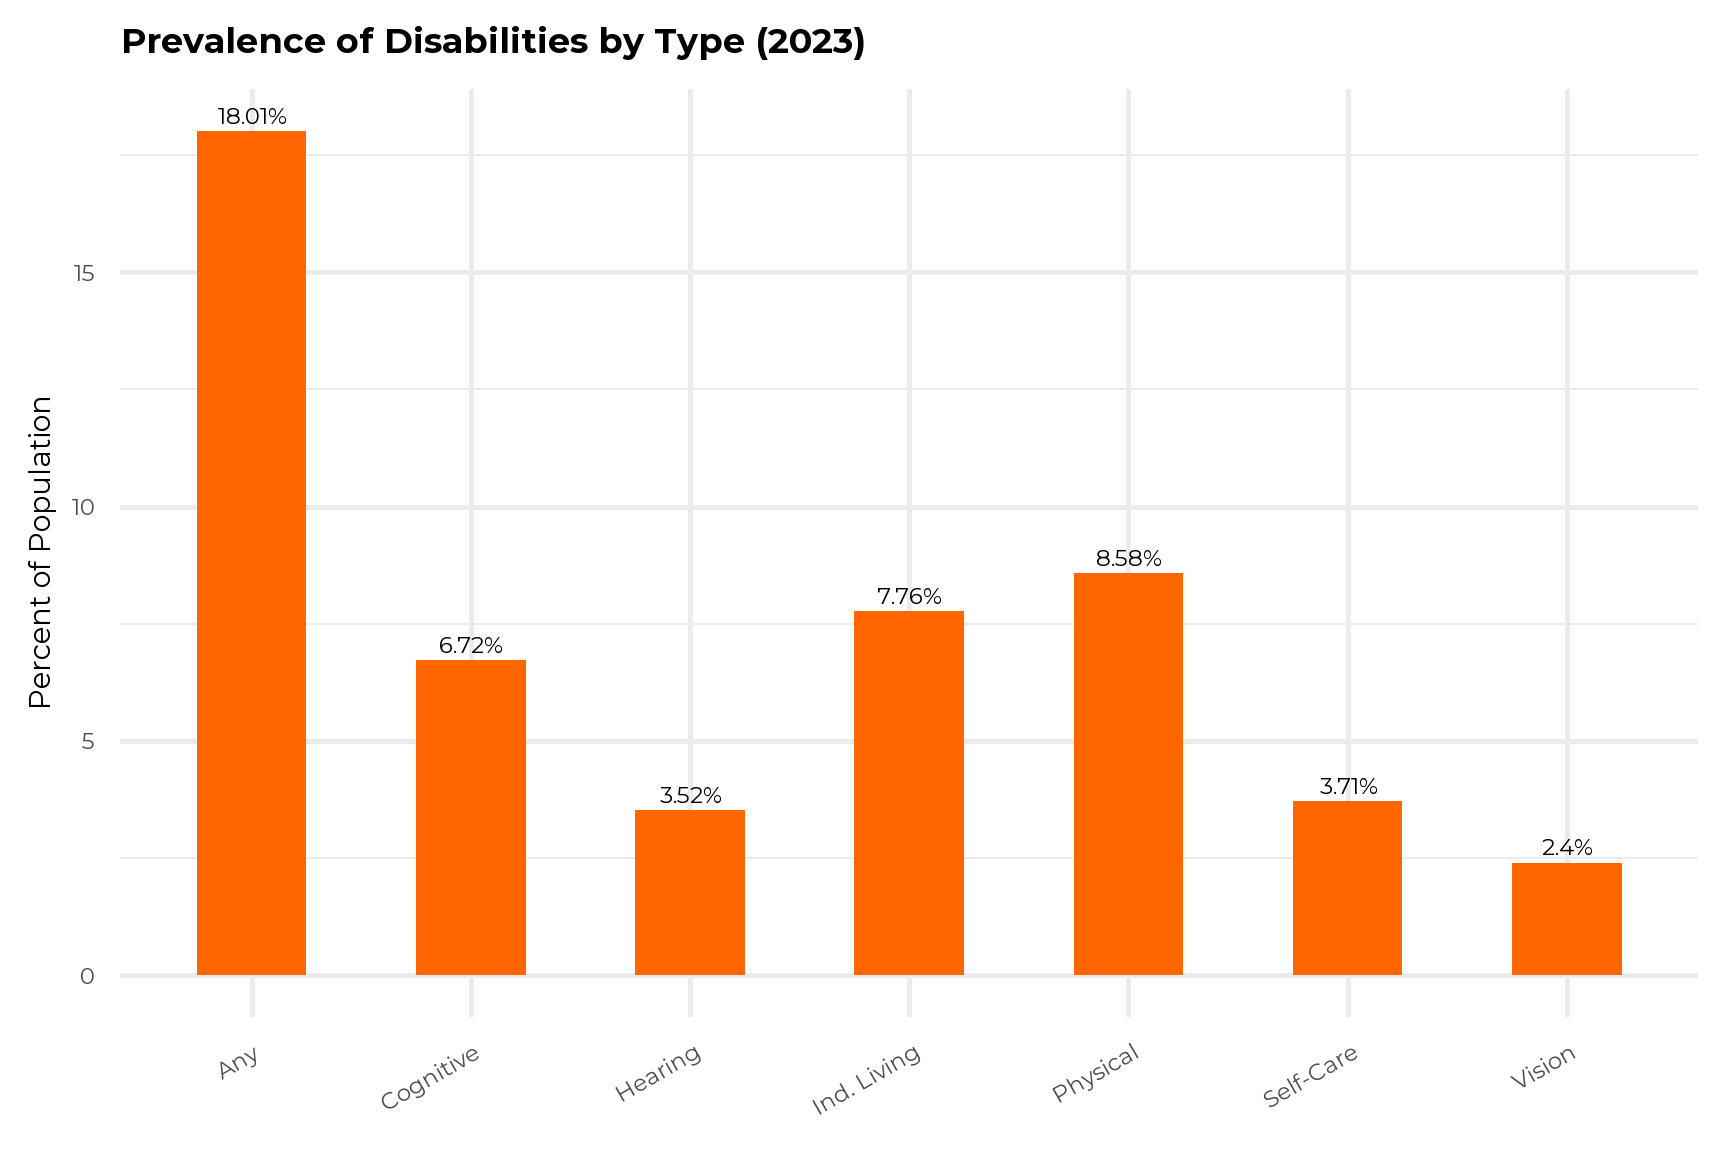
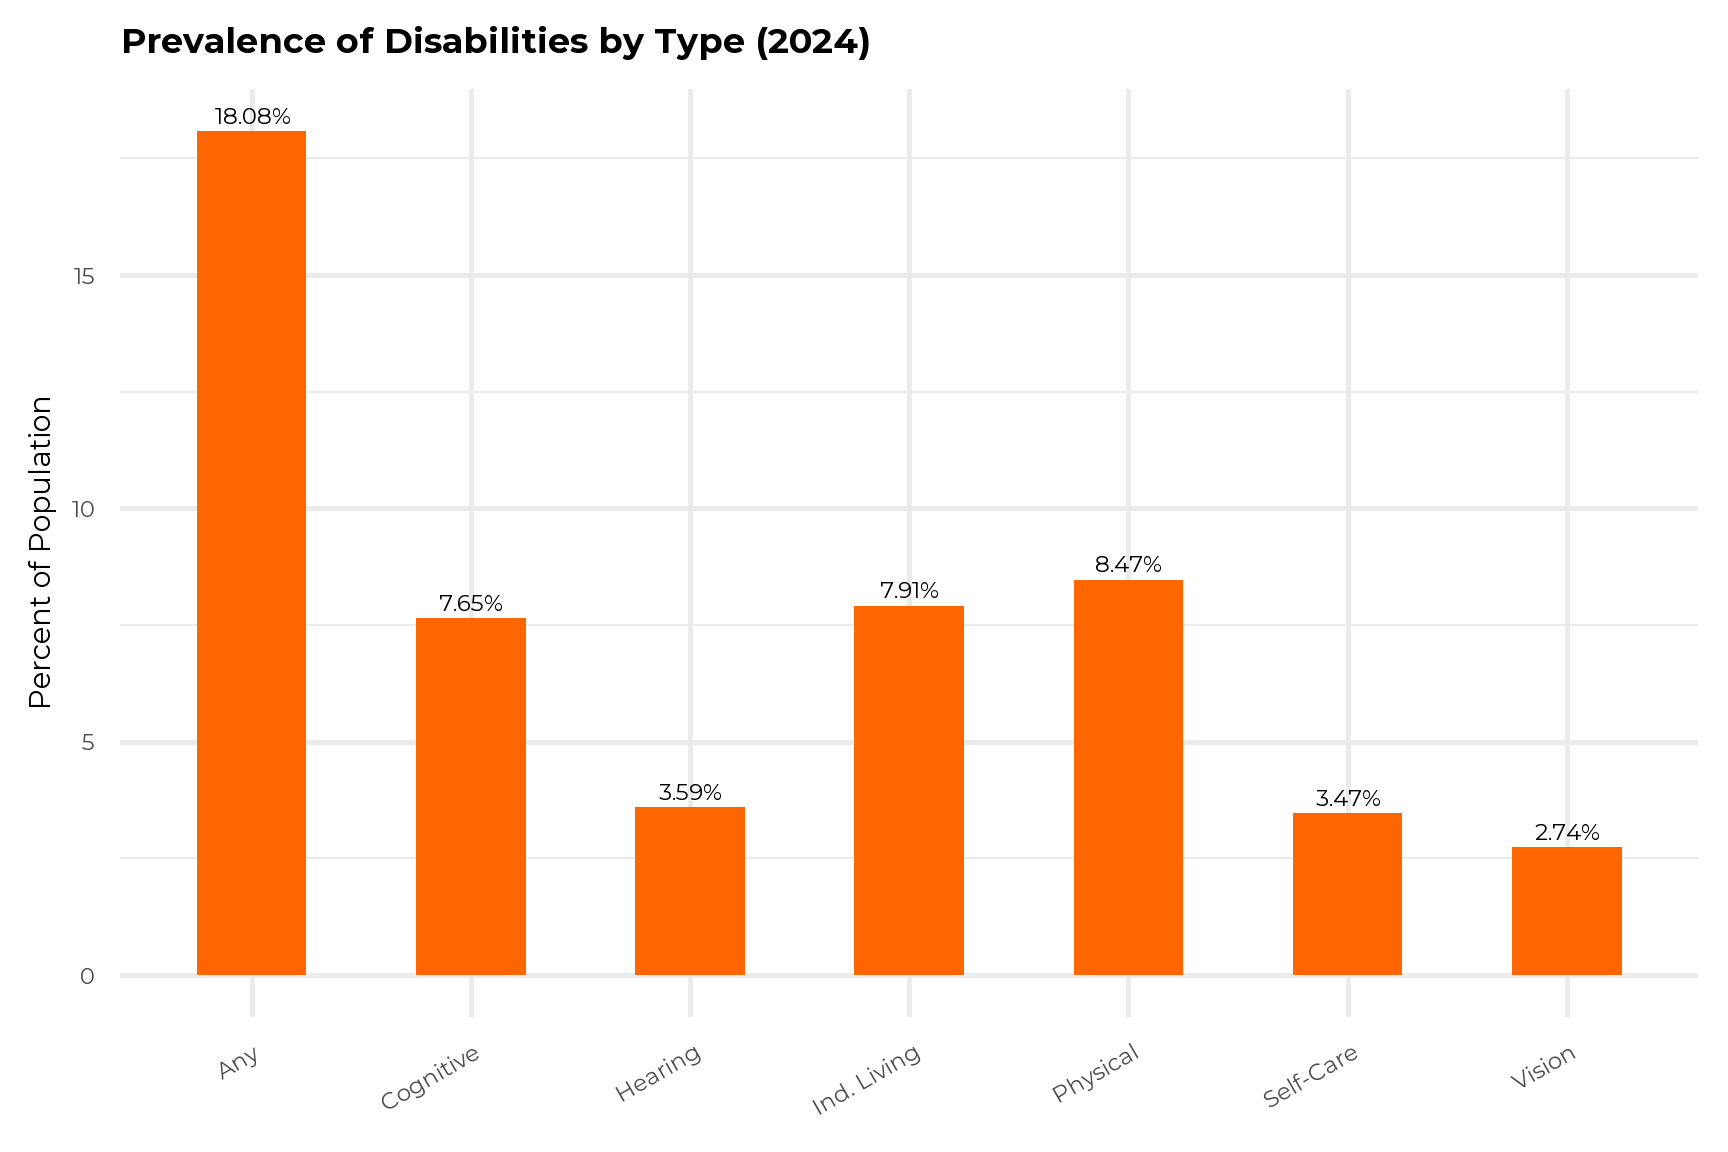
update render

diff --git a/docs/index.html b/docs/index.html
@@ -342,8 +342,8 @@ because of a physical, mental, or emotional condition.
 </tbody>
 </table>
 </details>
-<div id="trends-across-demographics-2023" class="section level2">
-<h2>Trends Across Demographics (2023)</h2>
+<div id="trends-across-demographics-2024" class="section level2">
+<h2>Trends Across Demographics (2024)</h2>
 <div id="overall" class="section level3 tabset">
 <h3 class="tabset">Overall</h3>
 <div id="individual" class="section level4">
@@ -362,6 +362,10 @@ because of a physical, mental, or emotional condition.
 <div id="race" class="section level3">
 <h3>Race</h3>
 <p><img src="index_files/figure-html/race_chart-1.png" width="864" /></p>
+</div>
+<div id="ambulatory-disability-and-race-by-age" class="section level3">
+<h3>Ambulatory Disability and Race (by Age)</h3>
+<p><img src="index_files/figure-html/unnamed-chunk-2-1.png" width="864" /></p>
 </div>
 <div id="own-vs.-rent" class="section level3 tabset">
 <h3 class="tabset">Own vs. Rent</h3>
@@ -397,8 +401,8 @@ because of a physical, mental, or emotional condition.
 </div>
 </div>
 </div>
-<div id="trends-over-time-2008-2023" class="section level2">
-<h2>Trends Over Time (2008-2023)</h2>
+<div id="trends-over-time-2008-2024" class="section level2">
+<h2>Trends Over Time (2008-2024)</h2>
 <p><em>Note missing data for the year 2020</em></p>
 <div id="overall-1" class="section level3">
 <h3>Overall</h3>
@@ -465,12 +469,15 @@ class="section level3">
 <h3>Households Including a Person Who Uses a Mobility Assistive
 Device</h3>
 <p><img src="index_files/figure-html/hh_difficulty-1.png" width="864" /></p>
-<!-- ### Households Including a Person Who Uses a Wheelchair  -->
-<p><img src="index_files/figure-html/unnamed-chunk-3-1.png" width="864" /></p>
+</div>
+<div id="households-including-a-person-who-uses-a-wheelchair"
+class="section level3">
+<h3>Households Including a Person Who Uses a Wheelchair</h3>
+<p><img src="index_files/figure-html/unnamed-chunk-4-1.png" width="864" /></p>
 </div>
 <div id="all-households" class="section level3">
 <h3>All Households</h3>
-<p><img src="index_files/figure-html/unnamed-chunk-4-1.png" width="864" /></p>
+<p><img src="index_files/figure-html/unnamed-chunk-5-1.png" width="864" /></p>
 </div>
 </div>
 </div>
